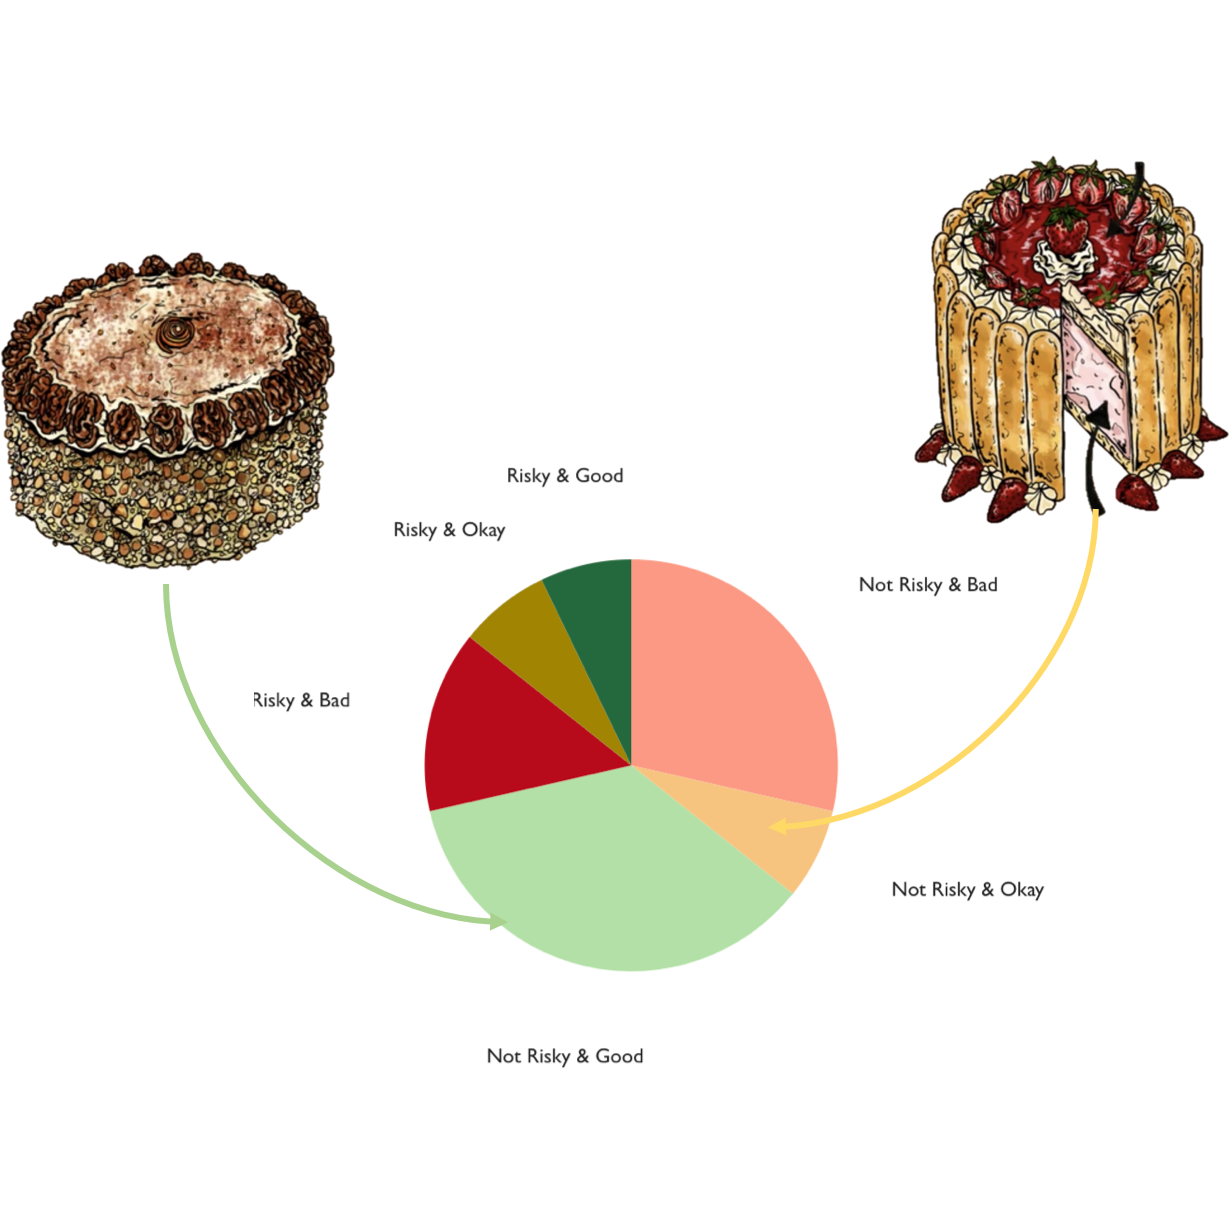
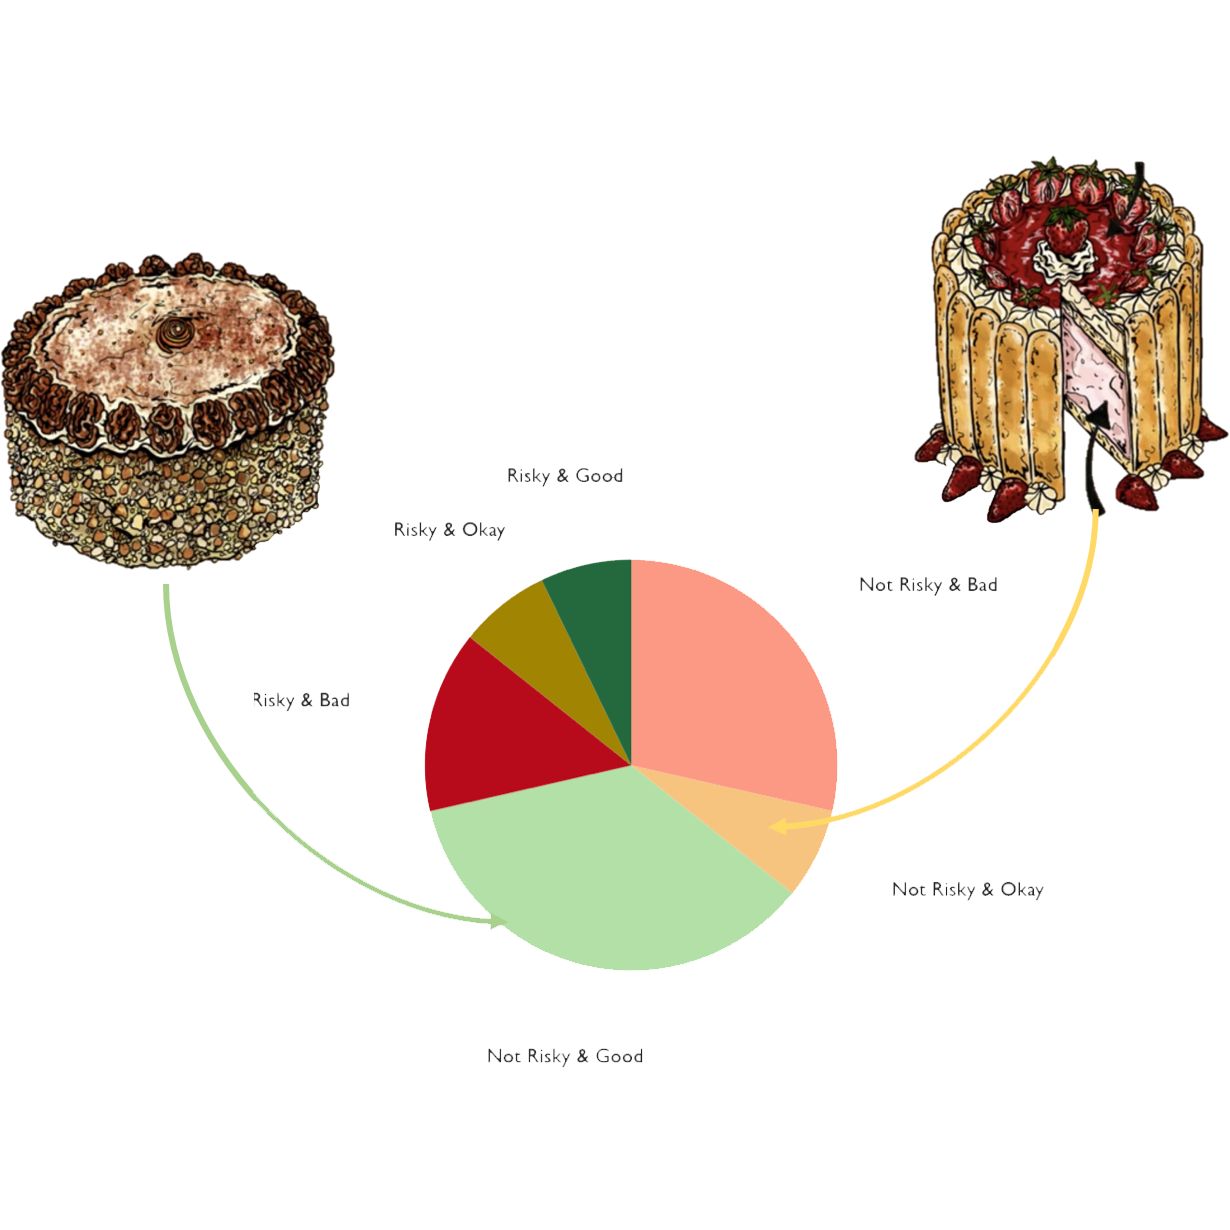
removed pic backgorund and changed label font size

diff --git a/article/src/components/RiskBarchartWOanim.js b/article/src/components/RiskBarchartWOanim.js
@@ -97,9 +97,7 @@ export default class BarchartExample extends React.Component {
               fontSize: 15,
               padding: 35
             },
-            tickLabel: {
-              fontSize: 8
-            }
+            tickLabels: {fontSize: 9, padding: 5}
           }}
         />
         <VictoryBar
